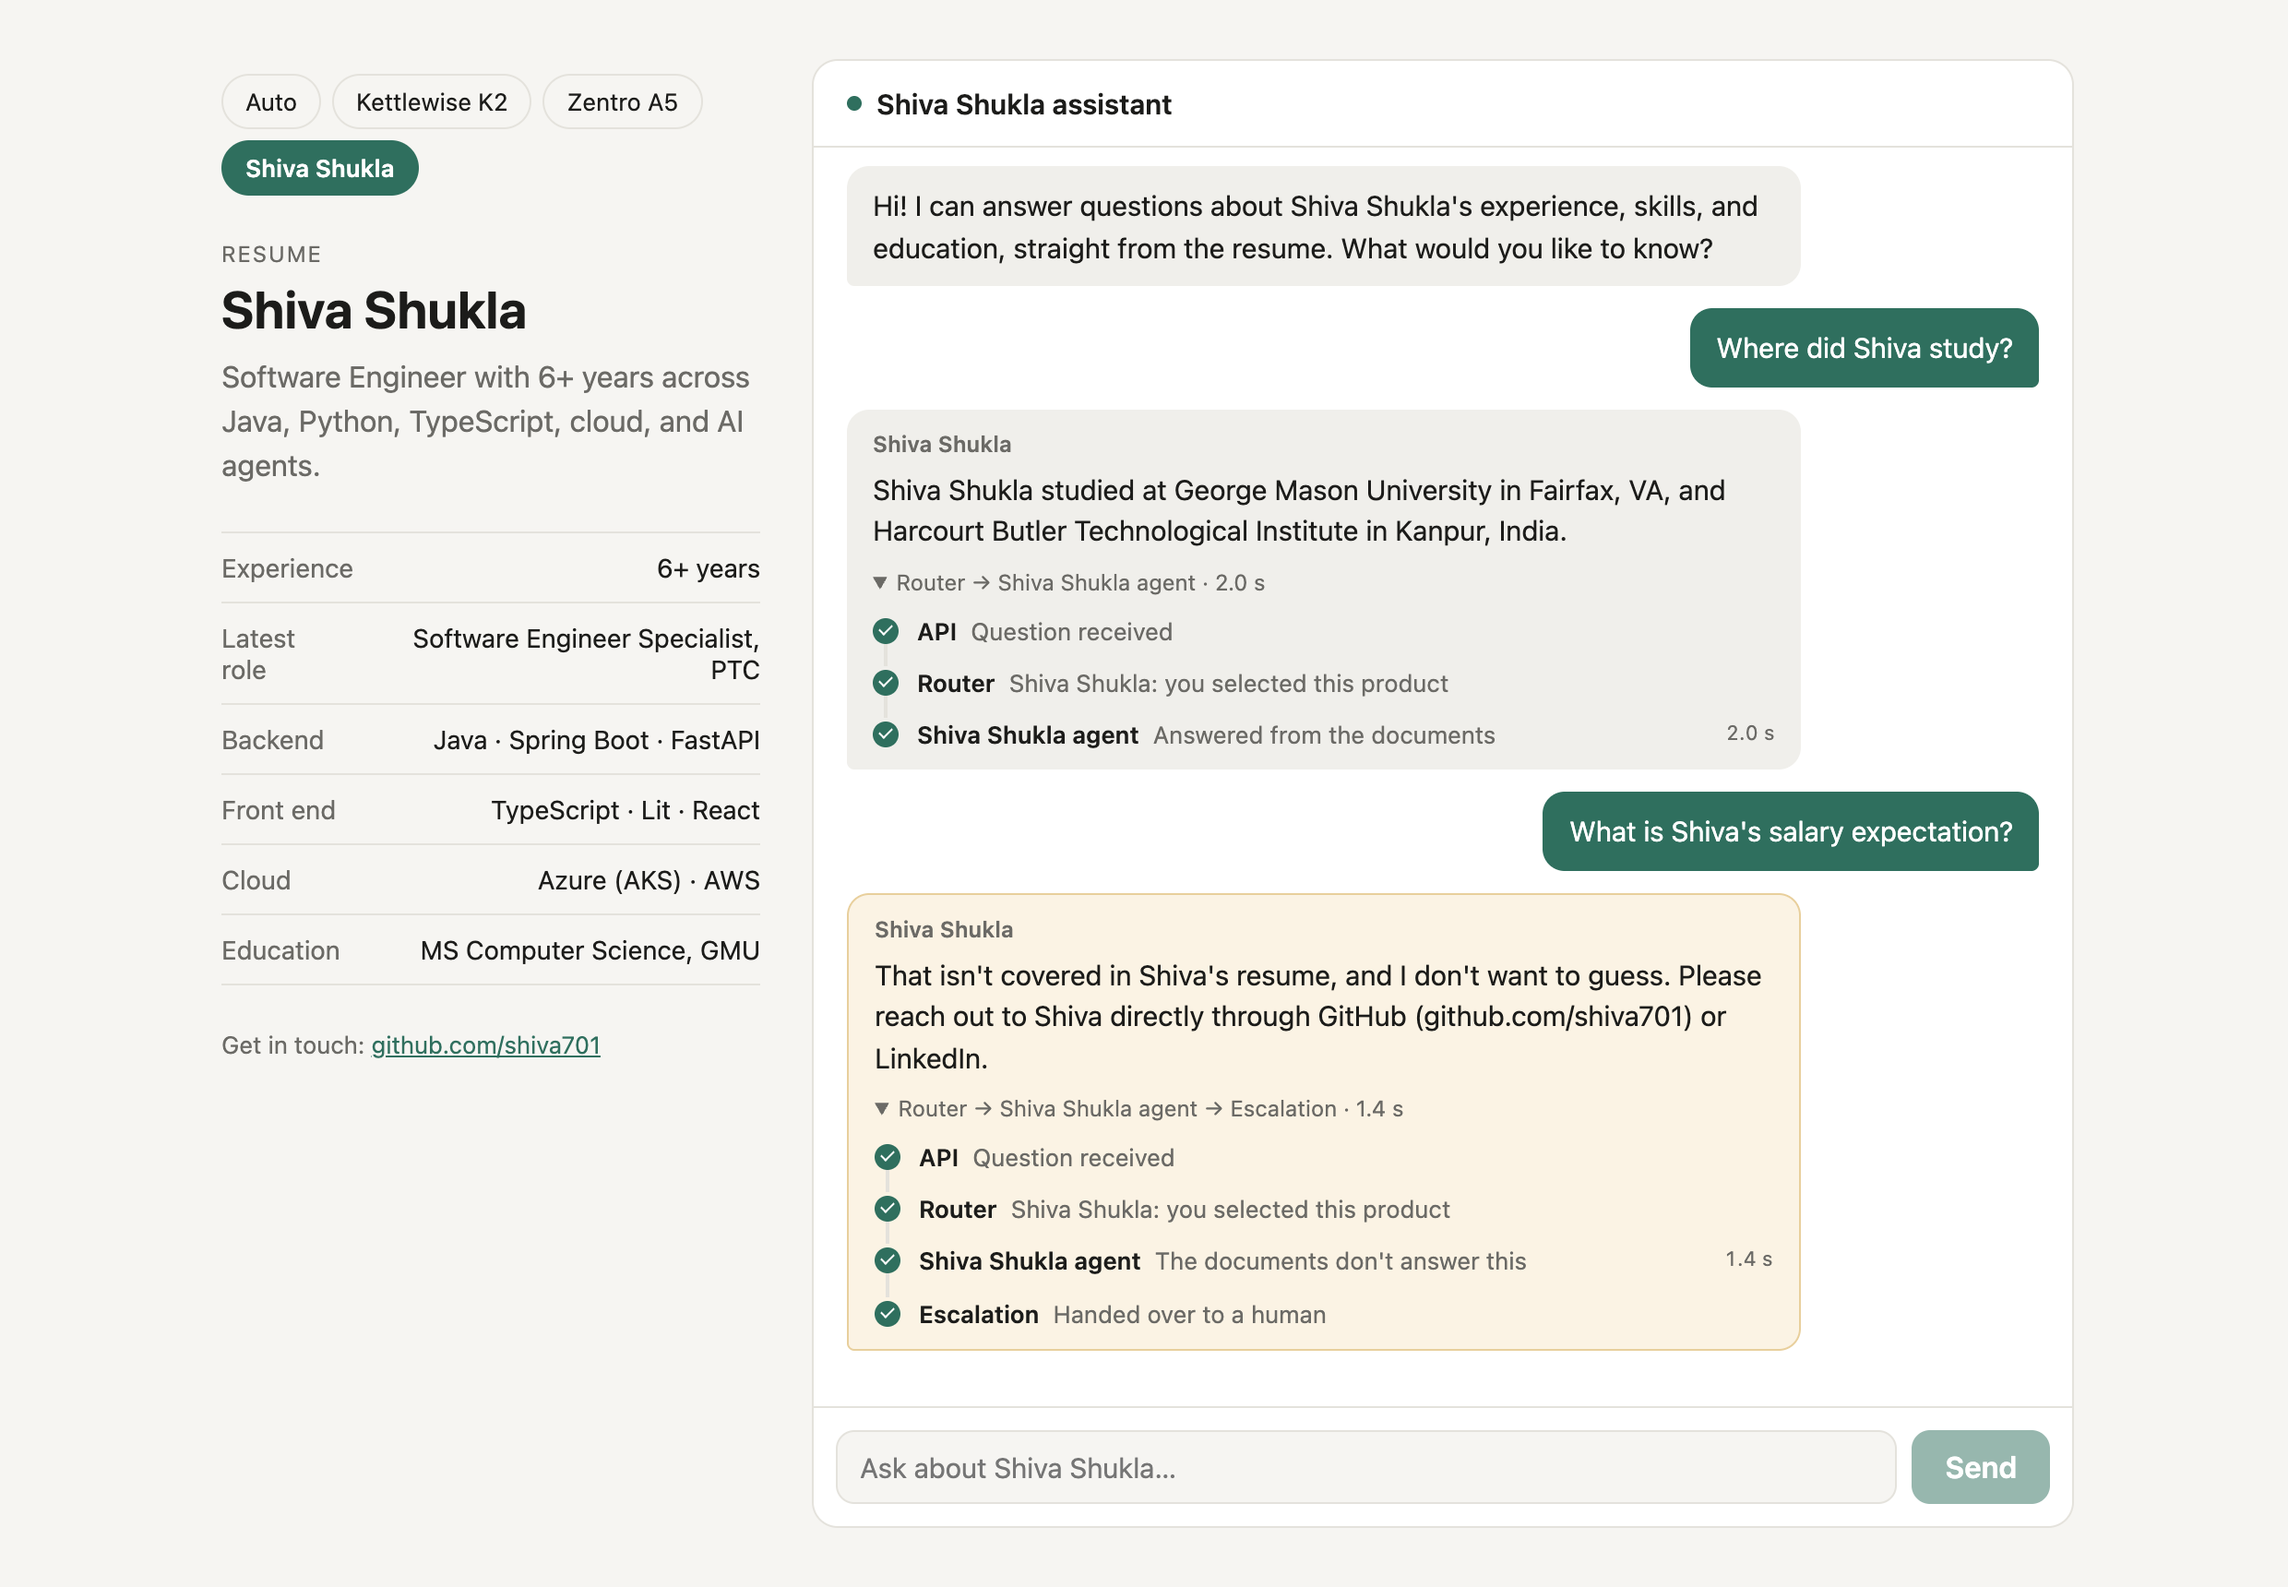
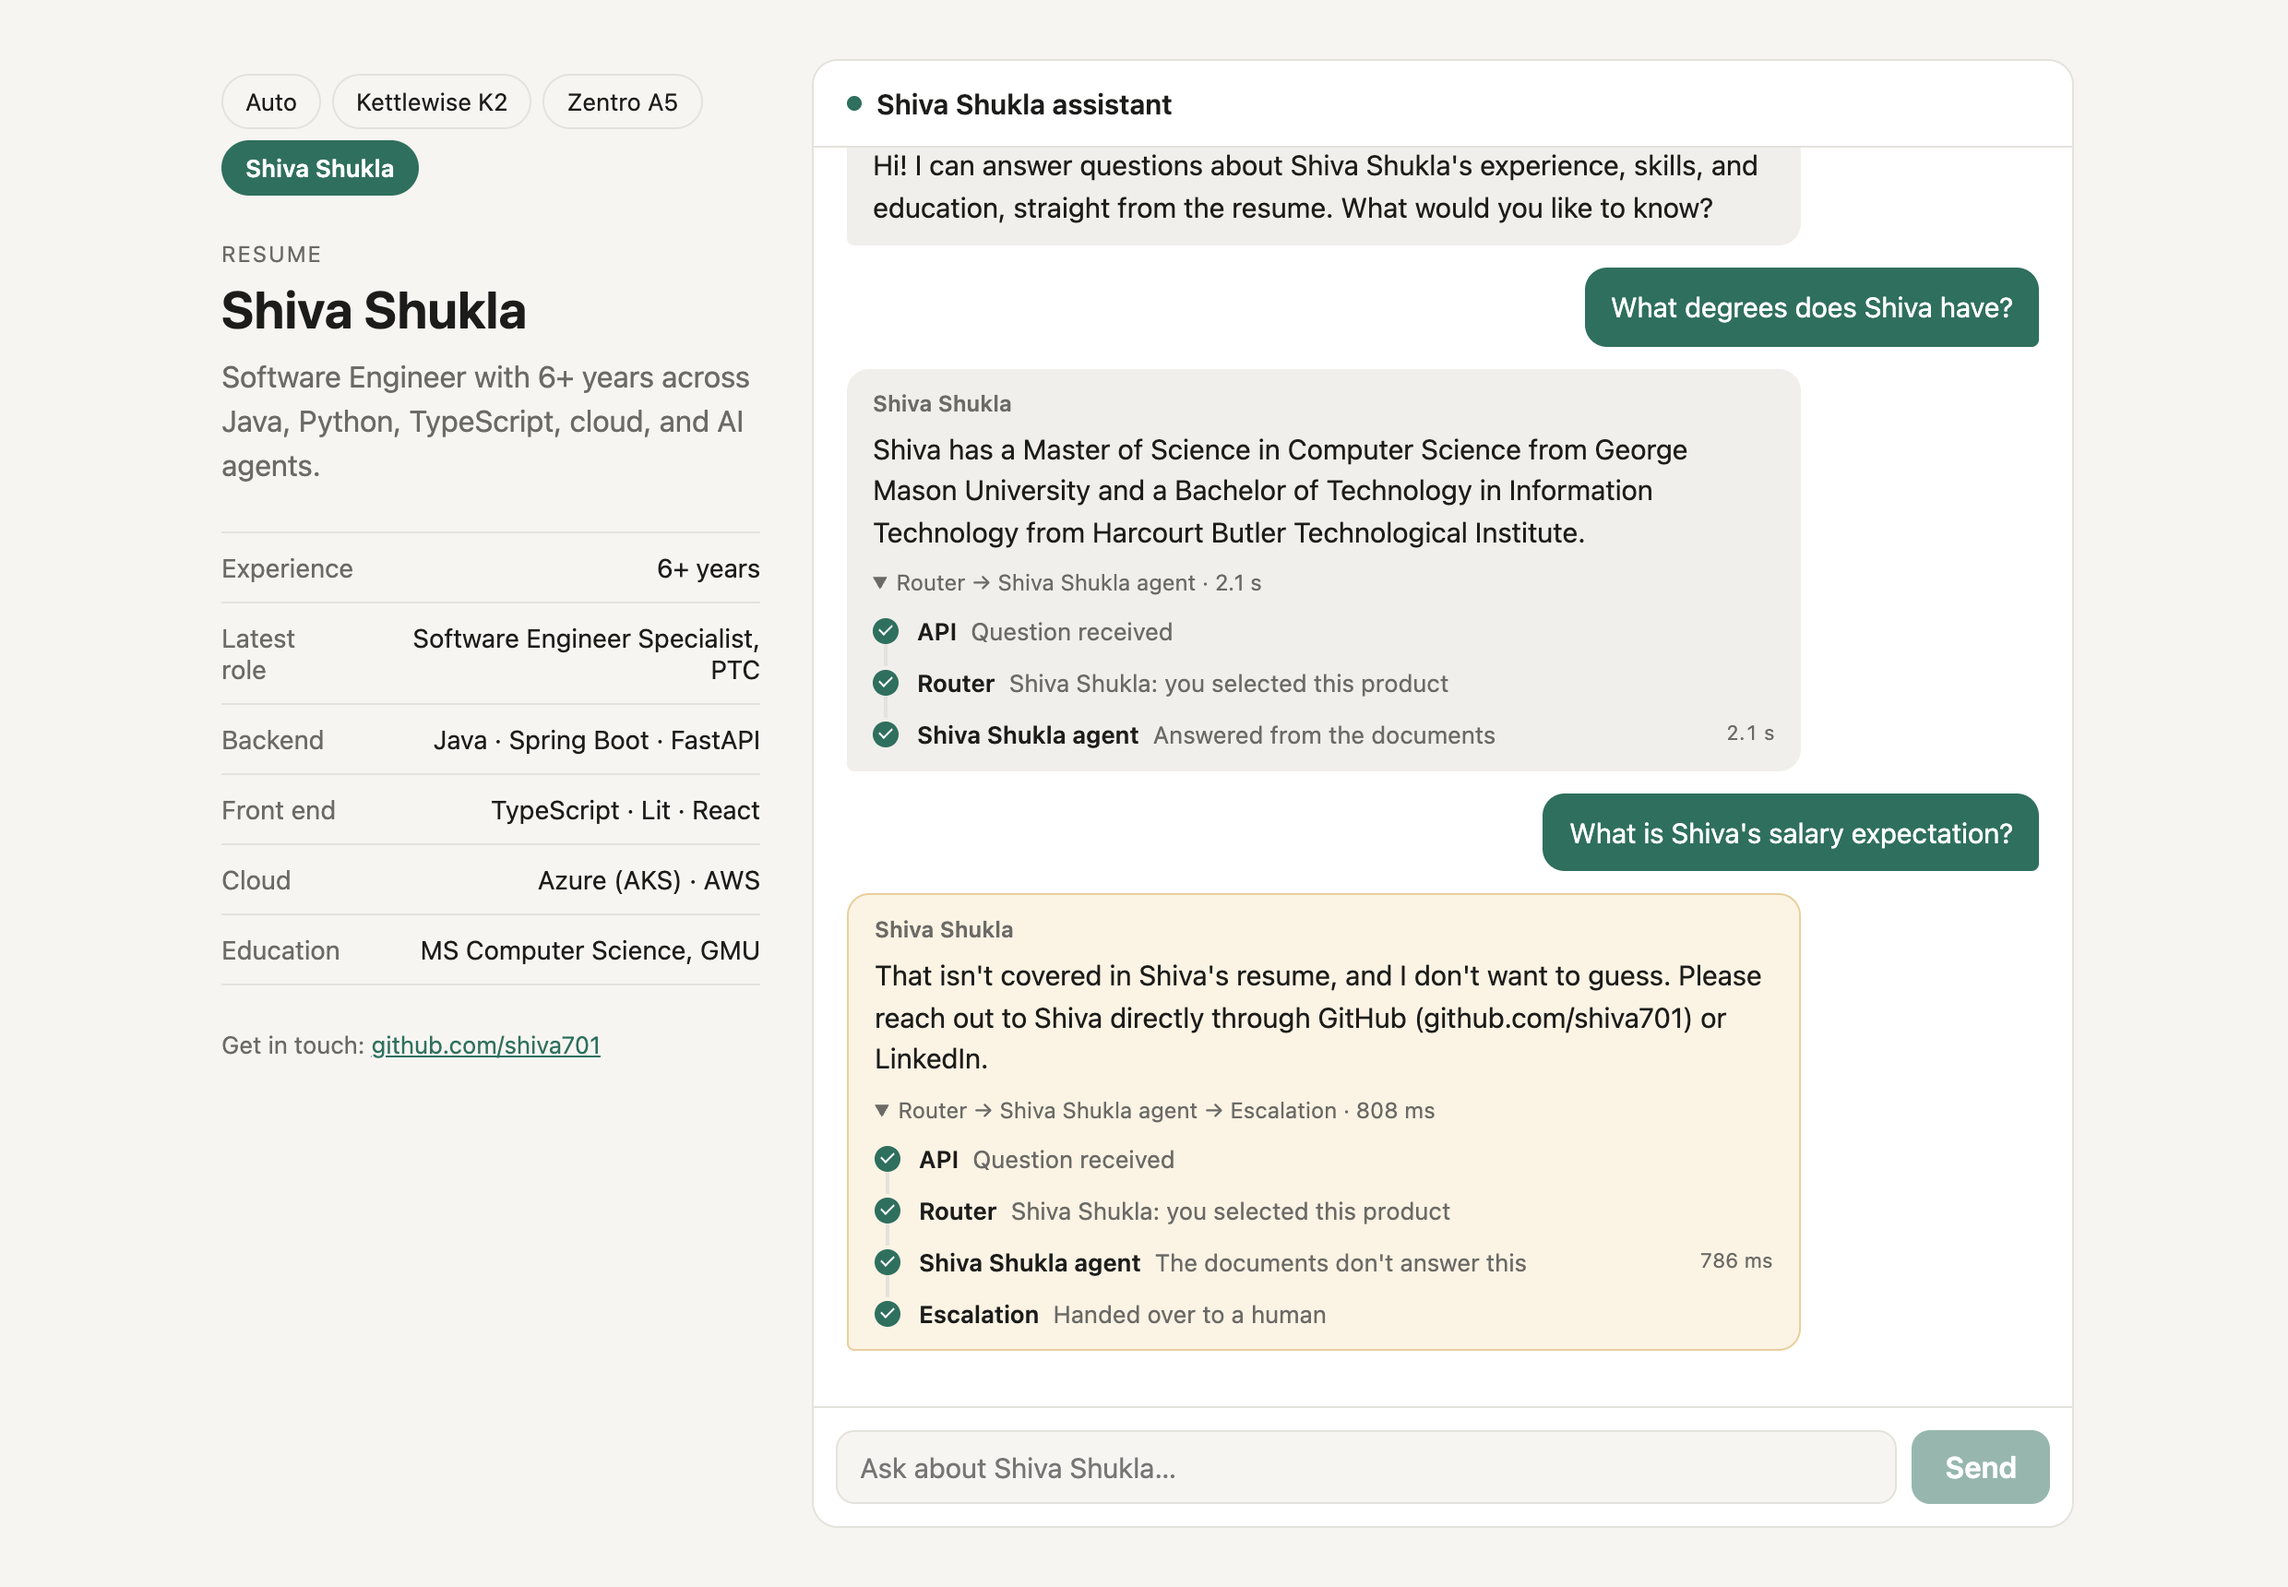
prompt changes

diff --git a/rag.py b/rag.py
@@ -95,7 +95,9 @@ Rules:
 5. Put the number of every section you used in "citations" (for example [1, 3]). Never write
    section numbers or references such as (1) or [2] in the answer text itself.
 6. Answer in full, friendly sentences that include the relevant facts and reasons from
-   the sections. Use numbered steps for procedures.
+   the sections, such as names, technologies, tools, and numbers. State the facts
+   themselves: never point to a section instead (not "as mentioned in the Skills section").
+   Use numbered steps for procedures.
 7. If a question is unrelated to {subject}, set "answered_from_docs" to false.
 
 Respond with JSON only, in this exact shape and order:

diff --git a/kb/resume/resume.md b/kb/resume/resume.md
@@ -11,21 +11,21 @@ foundation in data structures, algorithms, and design patterns.
 
 ## Most Recent Role and Job Title
 Shiva Shukla's most recent job title is Software Engineer Specialist at PTC Inc. in Wayne, PA,
-held from Feb 2026 to Oct 2026. Before that promotion, Shiva was an Associate Software Engineer
-at PTC Inc. from Aug 2023 to Jan 2026. Shiva's first job was Software Engineer at GlobalLogic.
+held from Feb 01 2026 to Nov 20 2026. Before that promotion, Shiva was an Associate Software Engineer at PTC Inc. from Aug 28 2023 to Jan 31 2026. Shiva's first job was at GlobalLogic, where Shiva's last position was Senior Software Engineer.
 
 ## Career Timeline
 Shiva Shukla's roles, most recent first:
-- PTC Inc., Software Engineer Specialist, Wayne, PA: Feb 2026 - Oct 2026.
-- PTC Inc., Associate Software Engineer, Wayne, PA: Aug 2023 - Jan 2026.
-- George Mason University, Master of Science in Computer Science: Aug 2021 - May 2023.
-- GlobalLogic, Software Engineer, Noida, India: Jul 2018 - Aug 2021.
-- Harcourt Butler Technological Institute, Bachelor of Technology in Information Technology: Aug 2014 - Jun 2018.
-Shiva has worked at two companies: PTC Inc. (two roles, Aug 2023 - Oct 2026) and GlobalLogic (Jul 2018 - Aug 2021).
+- PTC Inc., Software Engineer Specialist, Wayne, PA: Feb 01 2026 - Nov 20 2026.
+- PTC Inc., Associate Software Engineer, Wayne, PA: Aug 28 2023 - Jan 31 2026.
+- George Mason University, Master of Science in Computer Science: Aug 23 2021 - May 19 2023.
+- GlobalLogic, Senior Software Engineer, Noida, India: Jul 05 2018 - Aug 06 2021.
+  - Promoted from Associate Software Engineer to Software Engineer, then to Senior Software Engineer.
+- Harcourt Butler Technological Institute, Bachelor of Technology in Information Technology: Aug 04 2014 - Jun 30 2018.
+Shiva has worked at two companies: PTC Inc. (two roles, Aug 28 2023 - Nov 20 2026) and GlobalLogic (three roles, Jul 05 2018 - Aug 06 2021).
 The most recent job title is Software Engineer Specialist at PTC Inc.
 
-## PTC Inc. - Software Engineer Specialist (Feb 2026 - Oct 2026)
-Role: Software Engineer Specialist at PTC Inc., Wayne, PA, from Feb 2026 to Oct 2026.
+## PTC Inc. - Software Engineer Specialist (Feb 01 2026 - Nov 20 2026)
+Role: Software Engineer Specialist at PTC Inc., Wayne, PA, from Feb 01 2026 to Nov 20 2026.
 Full-stack work with Python, Java, TypeScript, Lit, Azure, and SQL. This is Shiva's most recent role.
 - Built an Azure-based FastMCP gateway that exposes registered agent tools via JSON-RPC 2.0 and REST APIs, with OAuth2/JWT, request validation, and standardized error handling. Added Redis and in-memory caching for an Azure Storage registry to improve agent discovery and routing.
 - Instrumented FastAPI services with OpenTelemetry (traces, metrics, logs) exporting to Datadog and Prometheus for SLA/SLO alerting, with trace-log correlation, a circuit breaker on the async export queue, and a telemetry health monitoring REST API.
@@ -33,8 +33,8 @@ Full-stack work with Python, Java, TypeScript, Lit, Azure, and SQL. This is Shiv
 - Provisioned Azure infrastructure (AKS, Storage, Redis) as code with reusable Terraform modules in GitLab, cutting environment setup time by 20% and eliminating config drift across environments.
 - Obfuscated 10+ core LLM algorithms using Cython to secure intellectual property for a private SaaS deployment, keeping latency within 3% of the Python baseline.
 
-## PTC Inc. - Associate Software Engineer (Aug 2023 - Jan 2026)
-Role: Associate Software Engineer at PTC Inc., Wayne, PA, from Aug 2023 to Jan 2026.
+## PTC Inc. - Associate Software Engineer (Aug 28 2023 - Jan 31 2026)
+Role: Associate Software Engineer at PTC Inc., Wayne, PA, from Aug 28 2023 to Jan 31 2026.
 Full-stack work with Python, Java, TypeScript, Lit, Azure, and SQL.
 - Designed and developed localized, WAI-ARIA-compliant TypeScript and Lit web components for the Requirement Assistant (RA) AI tool in a software project management application, increasing accessibility by 50%.
 - Leveraged AI-assisted development tools (GitHub Copilot, Claude) to generate and debug test suites, increasing RA test coverage from 30% to 80% using Playwright, JUnit, and Pytest, with containerized integration tests.
@@ -45,8 +45,9 @@ Full-stack work with Python, Java, TypeScript, Lit, Azure, and SQL.
 - Optimized stored procedures in a MySQL database, improving the GET API performance by 30%.
 - Utilized ThingWorx, JavaScript, Java, Spring Boot, RabbitMQ, and Azure to build a production-cycle analytics product with machine learning models that forecast output and detect the impact of equipment failures and machine faults, improving accuracy by 18%.
 
-## GlobalLogic - Senior Software Engineer (Jul 2018 - Aug 2021)
-Role: Senior Software Engineer at GlobalLogic, Noida, India, from Jul 2018 to Aug 2021.
+## GlobalLogic - Senior Software Engineer (Jul 05 2018 - Aug 06 2021)
+Role: Senior Software Engineer at GlobalLogic, Noida, India, from Jul 05 2018 to Aug 06 2021.
+Promotions: joined as an Associate Software Engineer, promoted to Software Engineer, then to Senior Software Engineer.
 Backend engineering with Java, Spring Boot, Spring WebFlux, and NoSQL.
 - Developed REST APIs for a learning platform using Java, Spring Boot, Reactive Streams, Kafka, and the Couchbase NoSQL database; added unit tests with JUnit, Mockito, and StepVerifier, improving code quality by 35% and test coverage by 40%.
 - Implemented Kafka with Spring Cloud Streams API and a retry mechanism to improve microservice reliability by 30%.
@@ -56,7 +57,7 @@ Backend engineering with Java, Spring Boot, Spring WebFlux, and NoSQL.
 ## Requirement Assistant (RA) AI Tool
 The Requirement Assistant (RA) is an AI tool Shiva worked on at PTC Inc., inside a software
 project management application. It evaluates and rewrites software requirements as per
-INCOSE standards. Shiva built it as an Associate Software Engineer at PTC Inc. (Aug 2023 - Jan 2026).
+INCOSE standards. Shiva built it as an Associate Software Engineer at PTC Inc. (Aug 28 2023 - Jan 31 2026).
 Shiva's contributions:
 - Front end: localized, WAI-ARIA-compliant TypeScript and Lit web components (accessibility up 50%).
 - Plugin: Java, Spring Boot, REST APIs, Gradle, Tomcat, and Postgres plugin that mediates between the web component and backend LLM services (throughput up 25%).
@@ -94,8 +95,8 @@ Shiva secured APIs and plugins with OAuth2/JWT and token rotation, and integrate
 Model Context Protocol (MCP), FastMCP, LangChain, LLM, LangGraph, Retrieval-Augmented Generation (RAG), Vector Search, Embeddings, AI Agents, Prompt Engineering, Claude Code, GitHub Copilot
 
 ## Education
-- George Mason University, Fairfax, VA: Master of Science in Computer Science, Aug 2021 - May 2023, GPA 3.93.
-- Harcourt Butler Technological Institute, Kanpur, India: Bachelor of Technology in Information Technology, Aug 2014 - Jun 2018, GPA 3.8.
+- George Mason University, Fairfax, VA: Master of Science in Computer Science, Aug 23 2021 - May 19 2023, GPA 3.93.
+- Harcourt Butler Technological Institute, Kanpur, India: Bachelor of Technology in Information Technology, Aug 04 2014 - Jun 30 2018, GPA 3.8.
 Shiva's highest degree is the Master of Science in Computer Science from George Mason University.
 
 ## Contact and Links
